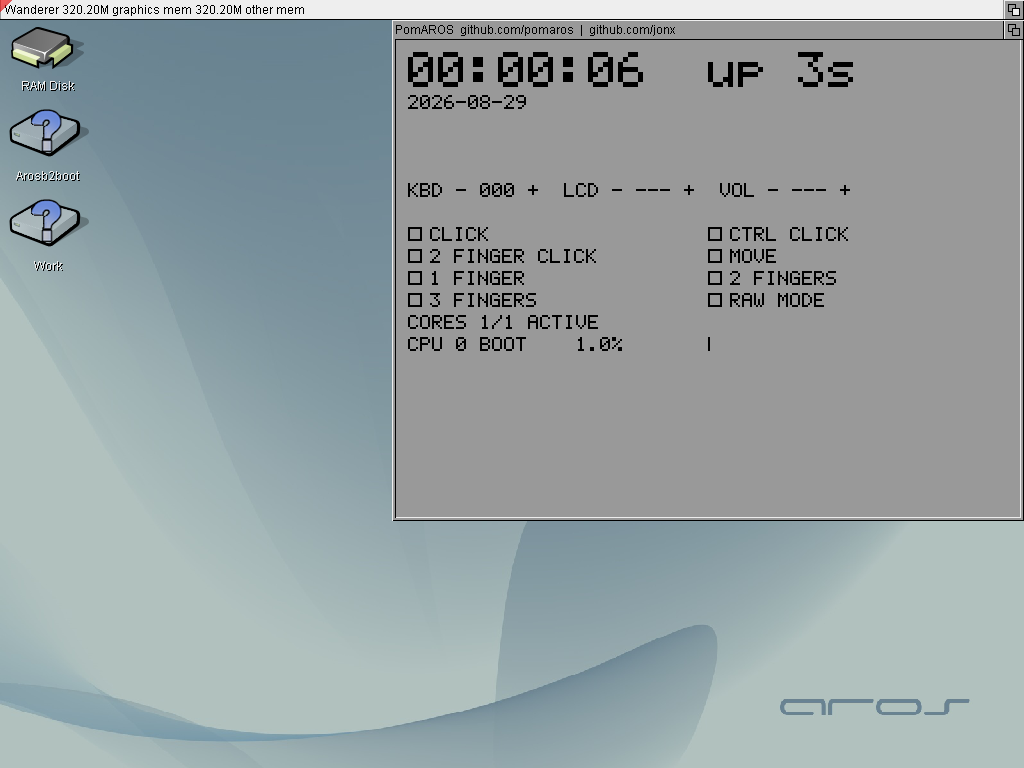
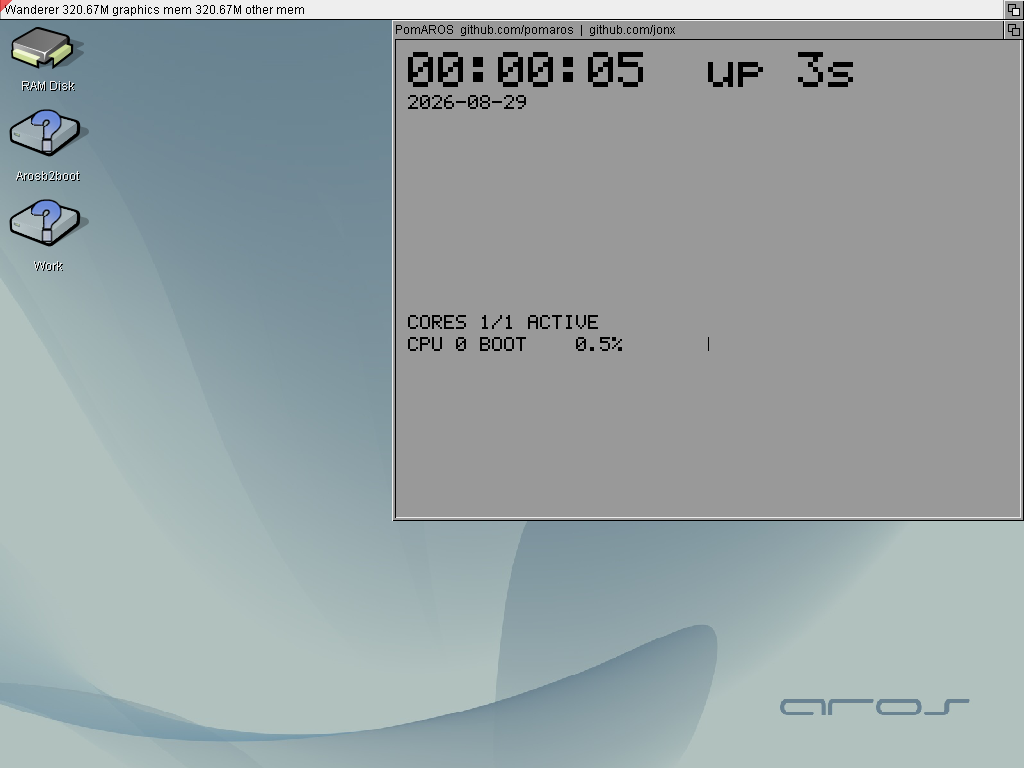
Record the qualified public-core desktop and actual screenshot

diff --git a/docs/STATUS.md b/docs/STATUS.md
@@ -1,8 +1,24 @@
 # Qualification status
 
-PomAROS QEMU builds and starts its full AROS desktop in a normal macOS Cocoa window using QEMU 11/HVF. The archived qualification below used core pin `9f346ab00d644bd40e0f53e2624c3f625d28f182` and the pinned VM tooling; the public-source migration is recorded separately. QEMU remains an external installation. Ordinary development builds use ad-hoc signing; the separately prepared internal DMG uses Developer ID signing and Apple notarization.
+## Public-source qualification
 
-## Verified on 2026-10-16
+`CORE.lock` pins public `pomaros/aros-core` revision `89db046157d415e98c05ca18316ca7ae63b07023`, shared with Hosted and VM. `TOOLS.lock` pins the reviewed VM tooling at `9bdd8d268bbb01e476542e4c8e835c340c90b5ad`. The final source was actually configured and rebuilt with frozen LLVM 20.1.0, UTC and retained release epoch `1792178266`. Boot, Wanderer and the full canonical distribution graph pass; all 44 required files exist. The package excludes VZ-only host-service commands and all eight physical Apple peripheral modules.
+
+The actual windowed HVF desktop run passes in 20.21 seconds. QMP register/status access, the LLDB assertion supervisor and HVF abort tracing are ready before the guest runs. Desktop stability, two HID bindings and GPU completion markers pass. Its first unaltered capture passes all 352 configured-wallpaper blocks and the strict public monitor geometry/glyph/palette/blank-row contract. Negative controls reject alerts inside and outside the widget, over its removed and retained labels, generic requesters, software alerts and missing wallpaper. The seed is unchanged and QEMU exits normally; guest flushing is not established.
+
[1 lines of base64/hex data omitted]
+
+The preceding runtime keeps its original FAIL verdict in `artifacts/desktop-hvf-public-89db/`: its pixel gate expected the removed native keyboard-backlight row. An independently reviewed profile replaces that expectation with a strict background row and retains the exact CORES/CPU masks; offline positive and negative controls passed on all three retained frames before the single new runtime. No core code or old verdict was changed to obtain the new result.
+
[1 lines of base64/hex data omitted]
+
+The tested app retains actual product revision `e9035fb`, packaging-tool revision `5896047` and guest revision `89db046`. The runtime verdict separately records the reviewed checker/tool revision `9bdd8d2`; documentation commits do not rewrite app provenance. These fresh development applications have ad-hoc signatures. Earlier notarized DMGs below remain sealed and unchanged.
+
+## Archived image and earlier evidence
+
+The earlier PomAROS QEMU development image builds and starts its full AROS desktop in a normal macOS Cocoa window using QEMU 11/HVF. The archived qualification below used core pin `9f346ab00d644bd40e0f53e2624c3f625d28f182` and the pinned VM tooling; the public-source migration is recorded separately. QEMU remains an external installation. Ordinary development builds use ad-hoc signing; the separately prepared internal DMG uses Developer ID signing and Apple notarization.
+
+## Archived development qualification
 
 The complete fresh guest SDK distribution graph passes, with all required files present. The QEMU package contains 3863 runtime files, its EFI loader, guest disk, firmware and license notices. It uses frozen LLVM 20.1.0 and release epoch `1792169063`/UTC. Actual guest objects were built at `48e445615380448d74ec02c9958a71201ce4904c`; later common changes add a hosted-only loader correction, extract the unchanged monitor renderer and add a Darwin-only monitor utility. Standalone loader tokens and the entire guest coldstart translation unit retain identical preprocessed code. Qualified artifacts and runs retain their original `3c382bc` source metadata; this pin update does not relabel those runs or rebuild unchanged guest objects.
 
@@ -10,7 +26,7 @@ Nine host tests pass, covering disk preservation, unusual paths, profile locking
 
 The actual final windowed HVF run passes in 33.49 seconds. Independent QMP status/register access, an owned-process LLDB assertion supervisor and HVF abort tracing are ready before guest execution. Guest markers establish desktop stability, two USB HID bindings and graphics IRQ completion. The unmodified guest framebuffer passes the strict production classifier: 352 blocks match the configured wallpaper extracted from the immutable package, and the monitor matches its frame, static glyphs and blank rows. Negative controls reject black/blue alerts inside and outside the monitor, alerts over its labels, generic requesters, software alerts and a missing wallpaper.
 
[2 lines of base64/hex data omitted]
 
 Guest logs also show a DHCP lease applied to vn0, with QEMU's NAT gateway and DNS configuration. Outbound DNS/TCP connectivity is not qualified by this desktop test. QEMU exits normally through the supervisor and the immutable seed remains unchanged; this does not establish guest filesystem flushing.
 
@@ -40,6 +56,4 @@ These are internal development artifacts for John. No public binary download or 
 
 ## Public-source migration
 
-`CORE.lock` selects public `pomaros/aros-core` revision `89db046157d415e98c05ca18316ca7ae63b07023`, branch `main`. Fresh-source build and runtime acceptance are recorded separately from the archived binaries below. The initial compile preflight built the boot and Wanderer graphs and passed a strict 20-resident windowed QEMU/HVF headless startup. Its full distribution attempt exposed a removed native updater dependency; the final public source replaces that UI backend with an explicit unavailable-target status. Final-source configuration and canonical rebuild are in progress; full desktop acceptance is pending.
-
-Future builds acquire the curated official-history `pomaros/aros-core` fork through `CORE.lock` into the separate `../aros-core` checkout. The VM boot manifests exclude physical Apple PMGR, DART, RTKit, SPMI, SMC, PCIe, NVMe and SPI-HID drivers. `appleboot.device` remains because it supplies the VM RAM-backed system volume. The source acquisition and native-module admission checks do not establish a successful new guest build or boot. The runtime evidence above belongs to the unchanged archived artifacts.
+Builds acquire the curated official-history `pomaros/aros-core` fork through `CORE.lock` into the separate `../aros-core` checkout. The VM boot manifests exclude physical Apple PMGR, DART, RTKit, SPMI, SMC, PCIe, NVMe and SPI-HID drivers. `appleboot.device` remains because it supplies the VM RAM-backed system volume. The source acquisition and native-module admission checks do not establish a successful new guest build or boot. The archived runtime evidence above belongs to the unchanged earlier artifacts.

diff --git a/README.md b/README.md
@@ -8,9 +8,10 @@ repository contains the Mac launcher and packaging only.
 
 ![PomAROS QEMU guest desktop in a windowed HVF session](docs/images/pomaros-qemu.png)
 
-Actual guest viewport captured through QMP from the windowed application on
-2026-10-16. The full desktop passes bounded HVF/GPU/USB-binding checks; this is
-a development package with the shutdown limits below. See
+Actual public-core guest viewport captured unchanged through QMP from a
+windowed HVF run. The public UP monitor displays clock and CPU rows; clock
+accuracy and sensors are not qualified. Bounded desktop/GPU/USB-binding checks
+pass; this development package retains the shutdown limits below. See
 [status and evidence](docs/STATUS.md).
 
 ## Run
